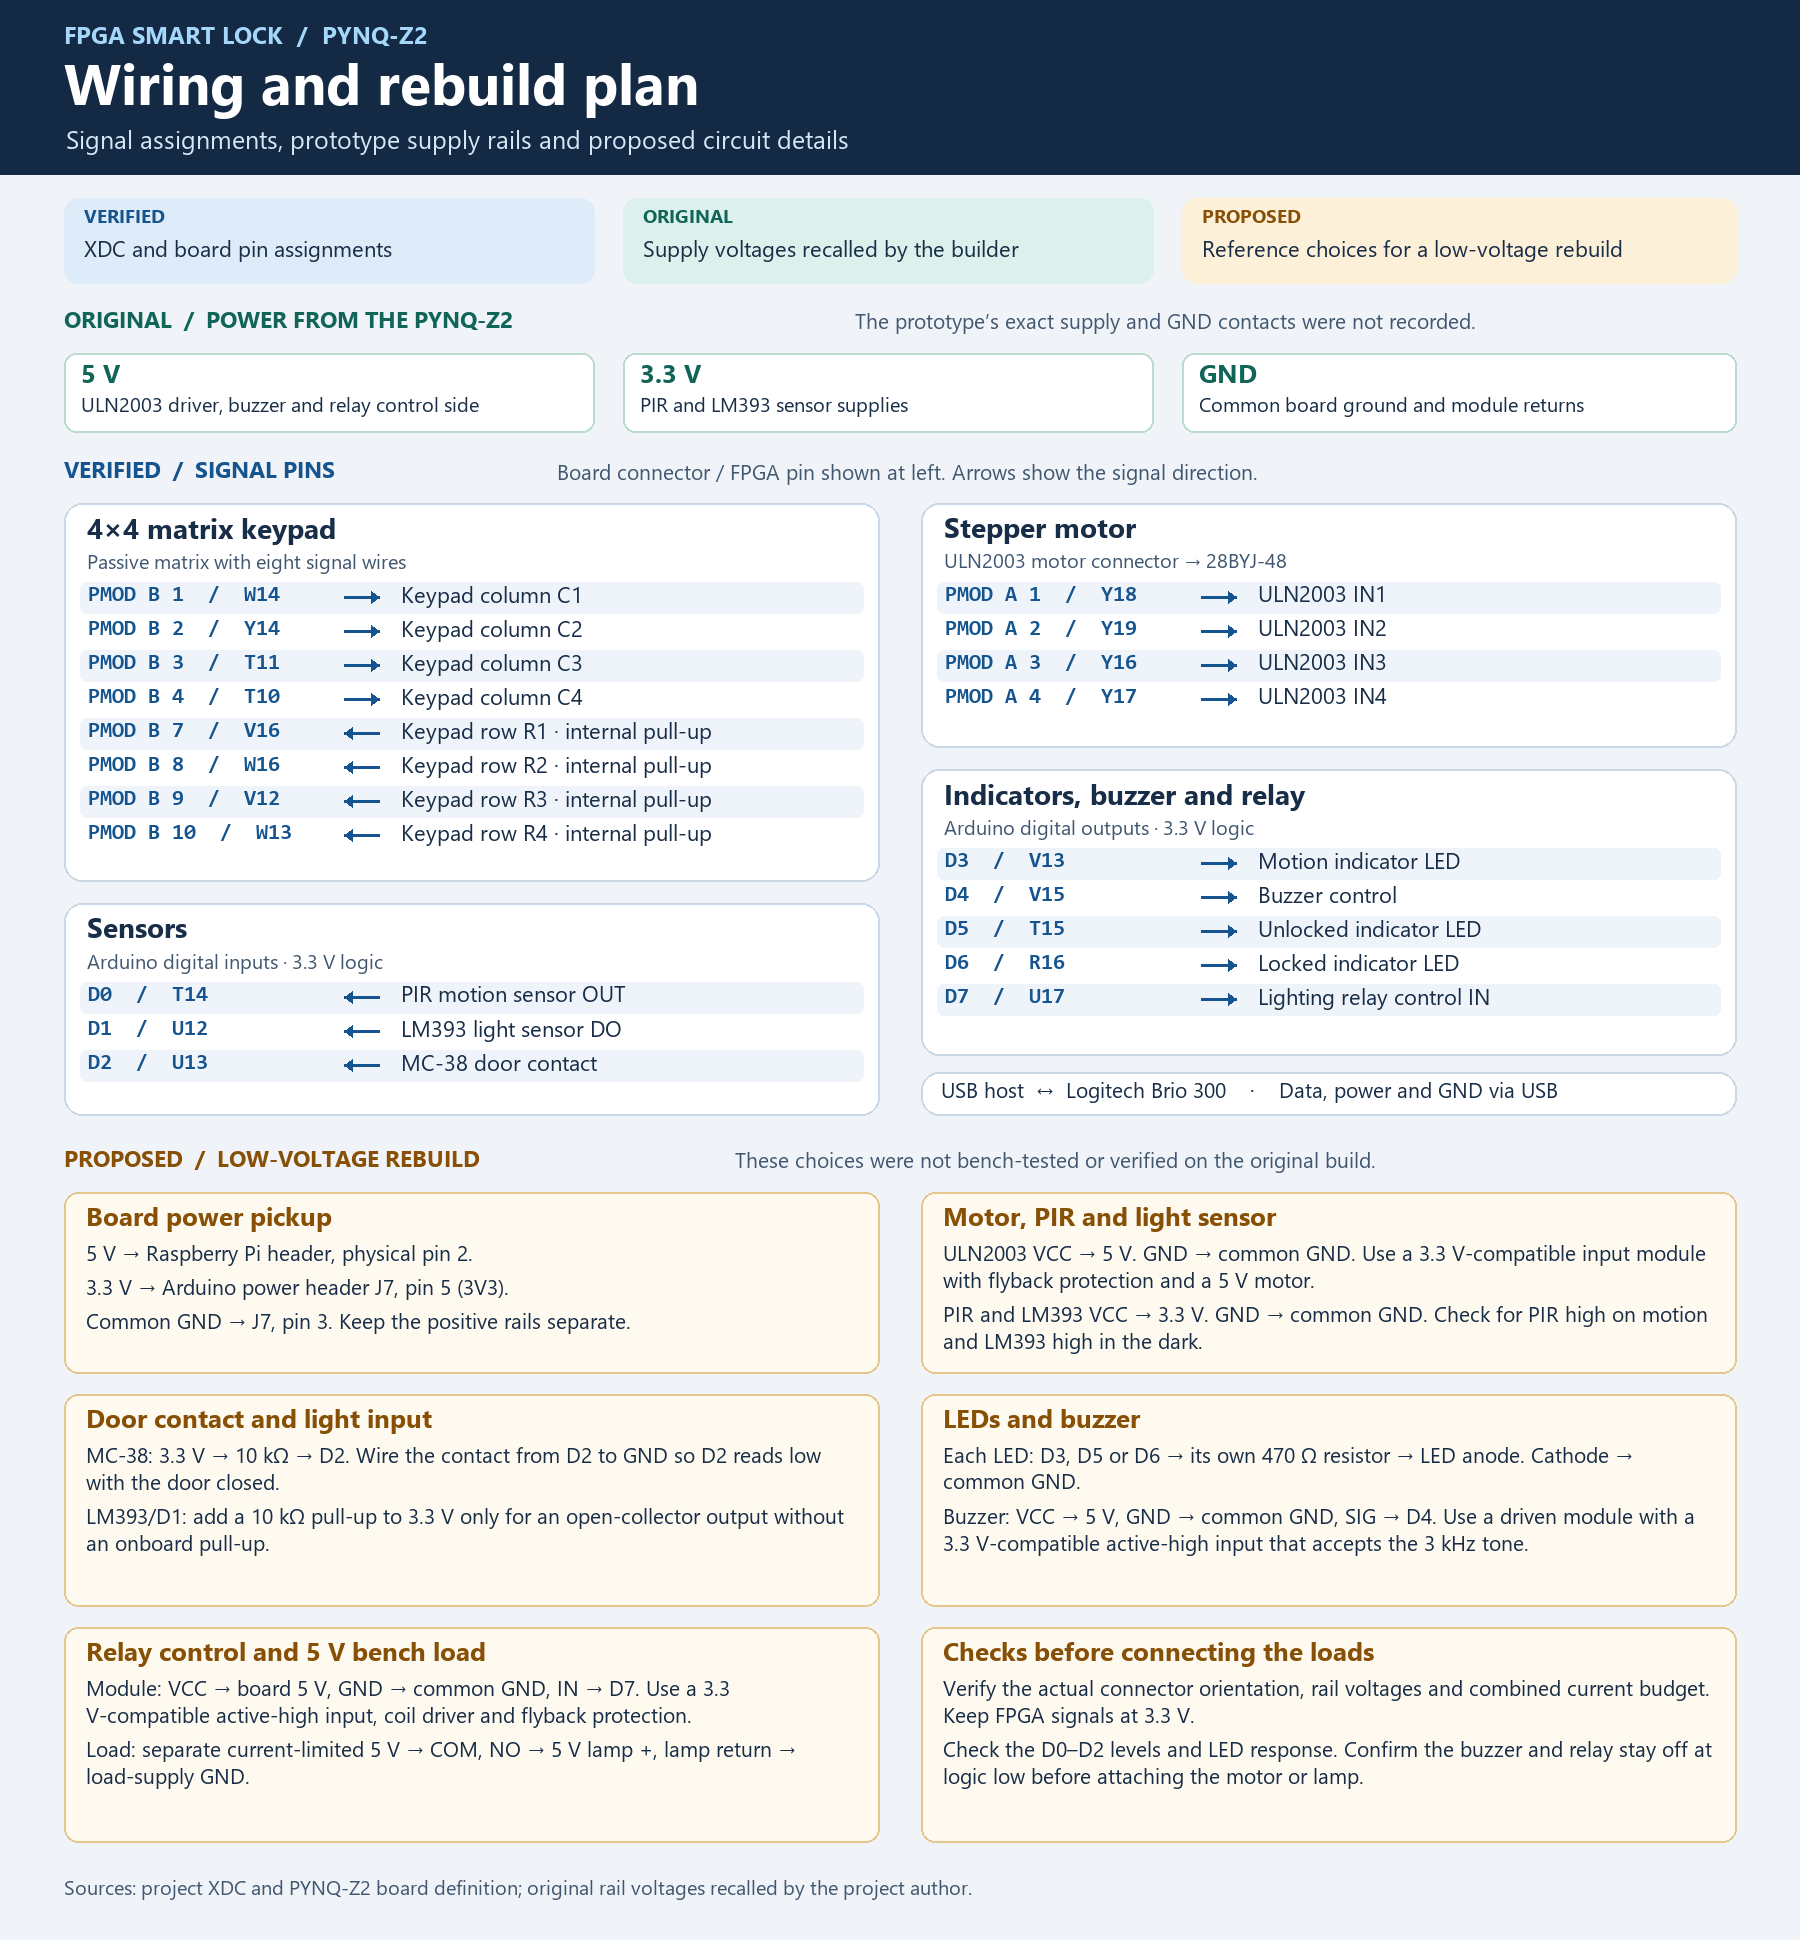
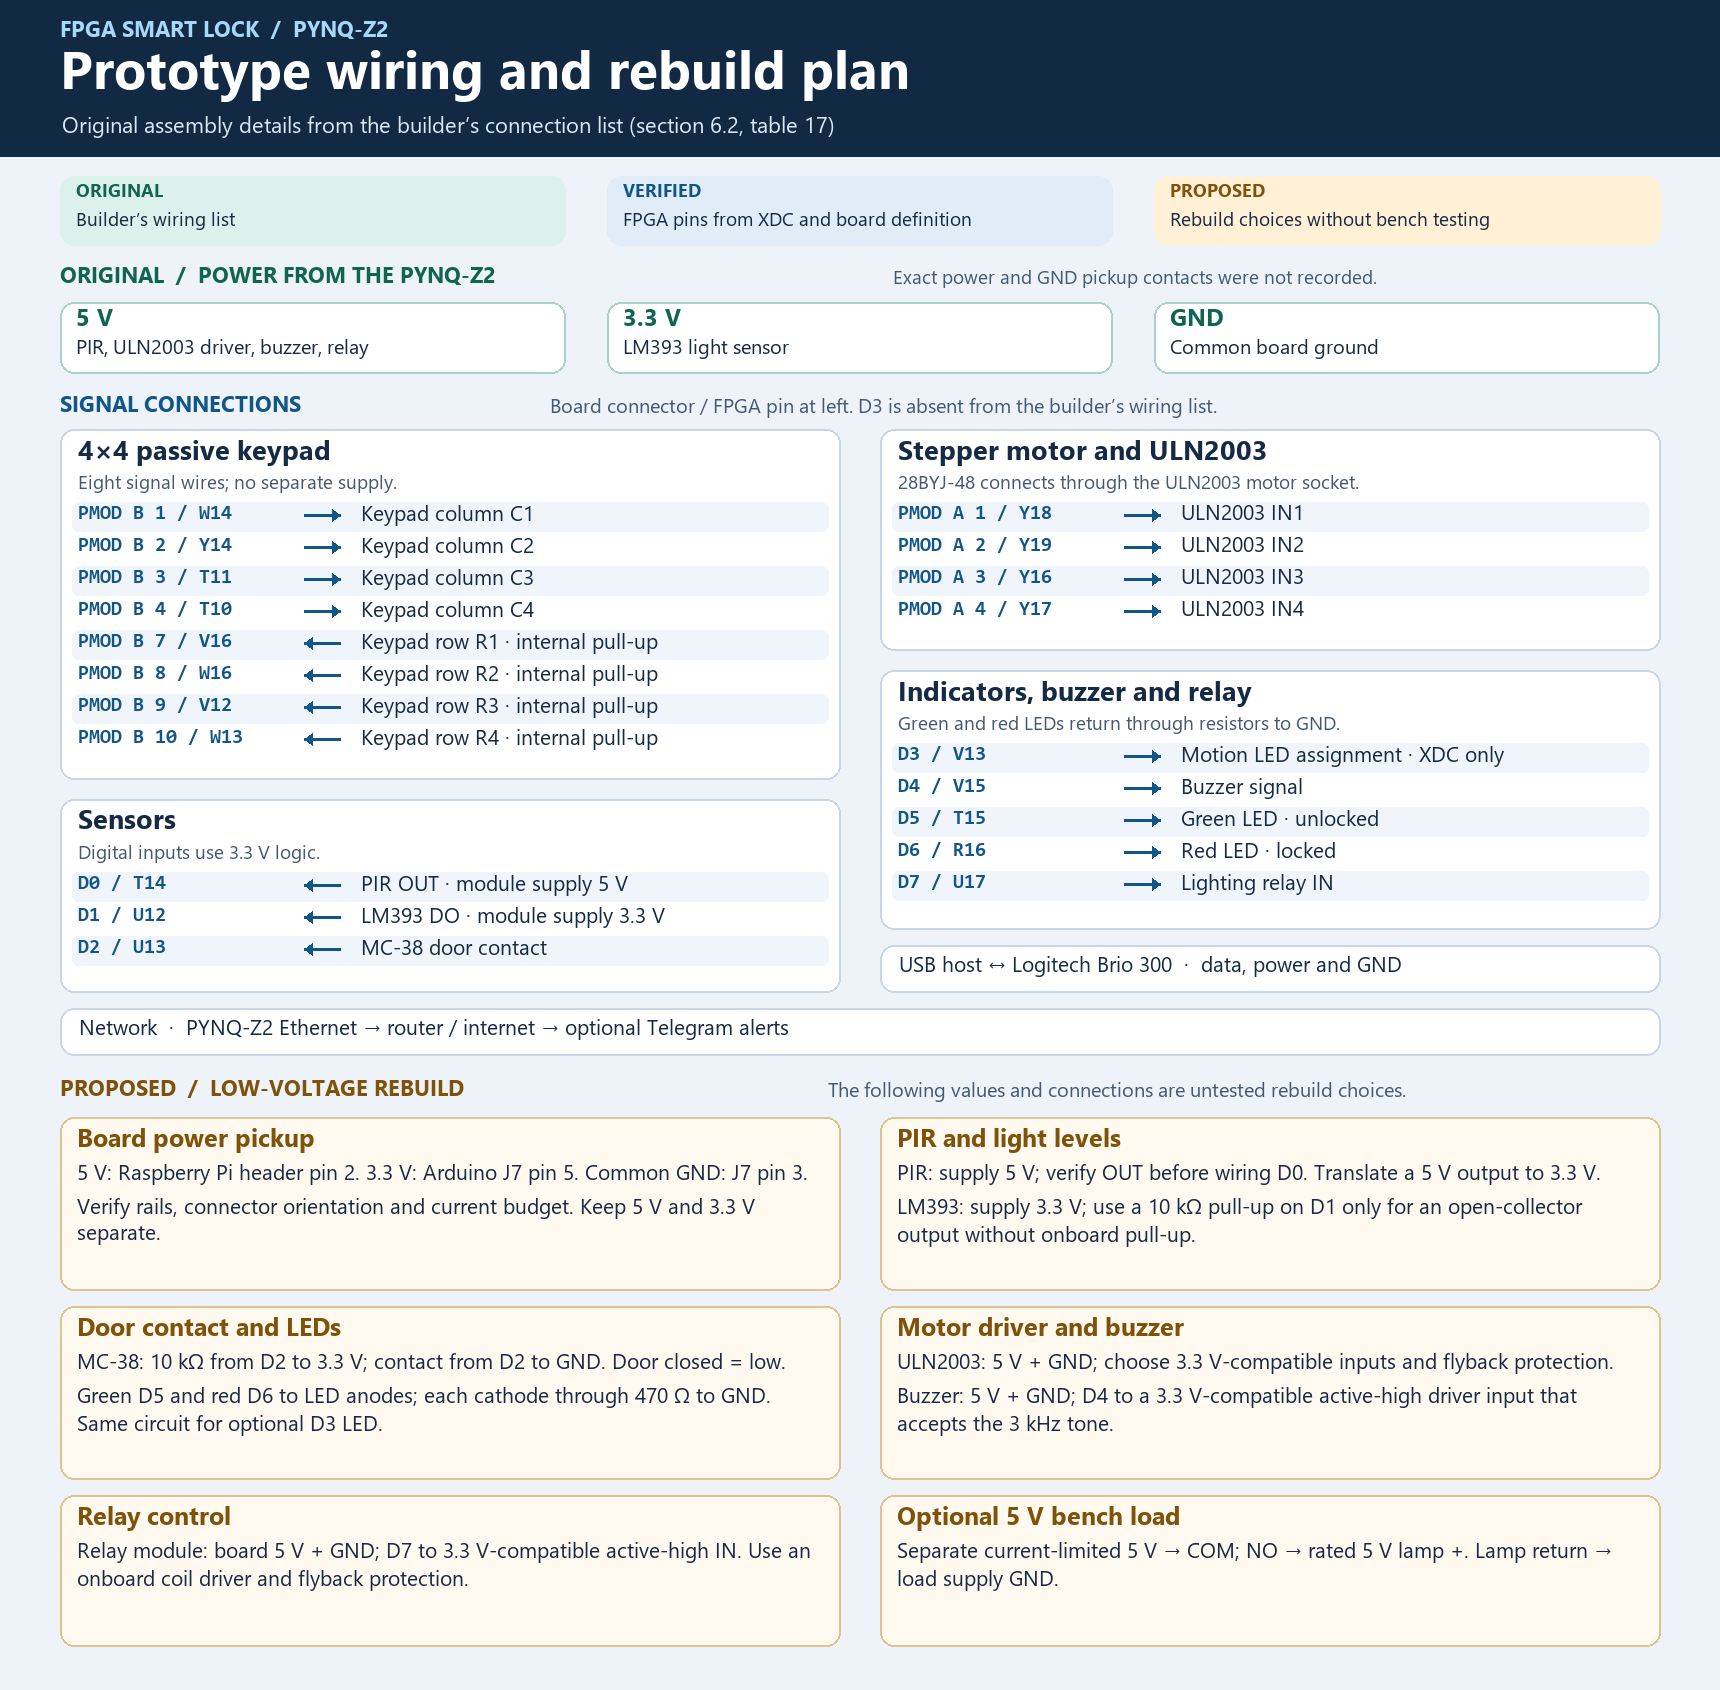
Reconcile hardware documentation with the original wiring table

Changed region(s): [[0.0308, 0.0, 0.9552, 0.9846]]

diff --git a/docs/hardware.md b/docs/hardware.md
@@ -18,12 +18,13 @@ flowchart LR
     camera -->|"USB"| board
     board -->|"PMOD A pins 1–4"| driver
     driver --> motor
-    board -->|"Arduino D3–D7"| indicators
+    board -->|"Arduino D4–D7"| indicators
+    board <-->|"Ethernet"| network["Router / Internet for Telegram"]
 ```
 
 ## Power and ground
 
-The prototype used the PYNQ-Z2 as the source for both supply rails and the common ground. The rail assignments below are based on the project author's recollection of the assembled prototype. The exact header contacts used to take 5 V, 3.3 V, and GND from the board were not recorded.
+The prototype used the PYNQ-Z2 as the source for both supply rails and the common ground. The supply and peripheral connections below follow the builder's wiring list (section 6.2, table 17). The list specifies 5 V for the PIR sensor and 3.3 V for the LM393 module. It does not identify the exact board contacts used for power and ground.
 
 ```mermaid
 flowchart LR
@@ -32,8 +33,8 @@ flowchart LR
     three["3.3 V rail"]
     ground["Common ground"]
     driver["ULN2003 driver"]
-    loads["Relay module and buzzer"]
-    sensors["PIR and LM393 light sensor modules"]
+    loads["Relay module, buzzer and PIR sensor"]
+    sensors["LM393 light sensor module"]
     motor["28BYJ-48 motor"]
     camera["USB camera"]
     board --> five
@@ -54,12 +55,13 @@ flowchart LR
 | 28BYJ-48 stepper | Through the 5 V-powered ULN2003 driver module | Through the driver module and motor connector |
 | Lighting relay module | Board 5 V on the module's control side | Board GND on the module's control side. Load-side wiring was not recorded. |
 | Buzzer | Board 5 V | Board GND reference. The exact drive and return wiring was not recorded. |
-| PIR motion sensor | Board 3.3 V | Board GND |
+| PIR motion sensor | Board 5 V | Board GND |
 | LM393 light sensor module | Board 3.3 V | Board GND |
-| Motion, unlocked, and locked LEDs | 3.3 V logic on D3, D5, and D6 | Board GND reference. Series resistor values and exact placement were not recorded. |
+| Green unlocked LED and red locked LED | 3.3 V logic on D5 and D6 | Return through a resistor to board GND. The resistor values were not recorded. |
 | MC-38 magnetic door sensor | Passive contact. D2 uses the 3.3 V logic domain. | The exact switch-to-GND connection and bias resistor arrangement were not recorded. |
 | 4×4 matrix keypad | Passive row and column matrix on PMOD B | Uses the eight matrix signal wires. The XDC enables FPGA pull-ups on the row inputs. |
 | Logitech Brio 300 camera | PYNQ-Z2 USB host port | Through the USB cable |
+| Optional Telegram alerts | Board Ethernet port to a router with internet access | Network connection only |
 
 The FPGA header signals use 3.3 V logic, including the control signals to the 5 V peripherals. Check the signal levels and interfaces of the specific modules before recreating the circuit. [PYNQ-Z2 reference manual](https://dpoauwgwqsy2x.cloudfront.net/Download/pynqz2_user_manual_v1_0.pdf)
 
@@ -89,10 +91,10 @@ Pin numbers refer to the physical PMOD connector. Direction is relative to the P
 | D0 (AR0) | T14 | `peripheral_inputs[0]` | Input | PIR motion sensor |
 | D1 (AR1) | U12 | `peripheral_inputs[1]` | Input | LM393 light sensor, digital output |
 | D2 (AR2) | U13 | `peripheral_inputs[2]` | Input | MC-38 magnetic door sensor |
-| D3 (AR3) | V13 | `peripheral_outputs[0]` | Output | Motion indicator LED |
+| D3 (AR3) | V13 | `peripheral_outputs[0]` | Output | Motion indicator in the XDC and notebook. The supplied wiring list does not show a connected LED on D3. |
 | D4 (AR4) | V15 | `peripheral_outputs[1]` | Output | Buzzer control |
-| D5 (AR5) | T15 | `peripheral_outputs[2]` | Output | Unlocked indicator LED |
-| D6 (AR6) | R16 | `peripheral_outputs[3]` | Output | Locked indicator LED |
+| D5 (AR5) | T15 | `peripheral_outputs[2]` | Output | Green unlocked indicator LED |
+| D6 (AR6) | R16 | `peripheral_outputs[3]` | Output | Red locked indicator LED |
 | D7 (AR7) | U17 | `peripheral_outputs[4]` | Output | Lighting relay control |
 
 The notebook treats a low signal on AR2 as door closed and a high signal as door open. The XDC comment labels this input as an external reset. The final report and notebook assign it to the door sensor.
@@ -117,13 +119,14 @@ Locate pin 1 and verify the rail voltages with a meter before attaching modules.
 | --- | --- |
 | ULN2003 driver and 28BYJ-48 | Use the 5 V version of the motor. Connect the driver's 5 V and GND terminals to the corresponding rails. Connect PMOD A pins 1–4 to IN1–IN4 as listed above, and plug the motor into the driver's motor connector. Select a driver module that specifies compatibility with 3.3 V control and includes the motor flyback path. |
 | 4×4 keypad | Connect columns C1–C4 to PMOD B pins 1–4 and rows R1–R4 to pins 7–10. Use a passive matrix keypad with no separate supply connection. Match wires by row and column, since ribbon pin order can vary. |
-| PIR sensor | Use a PIR module specified for a 3.3 V supply and 3.3 V output. Connect VCC to 3.3 V, GND to common GND, and OUT to D0. The notebook expects a high signal on motion. |
+| PIR sensor | Connect VCC to 5 V and GND to common GND. The notebook expects a high signal on motion at D0. Verify the module's OUT voltage before connecting it. A 5 V output requires a suitable 5 V-to-3.3 V interface before D0. |
 | LM393 light sensor | With a module rated for a 3.3 V supply, connect VCC to 3.3 V, GND to common GND, and digital output to D1. Verify that the output stays in the 3.3 V domain and goes high in the dark for the notebook's default `DARK_VALUE = 1`. Add a 10 kΩ pull-up to 3.3 V only if the output is open collector and the module lacks an onboard pull-up. |
 | MC-38 door contact | Connect a 10 kΩ pull-up from D2 to 3.3 V. Connect the contact between D2 and GND. With the magnet in the door-closed position, confirm that the contact conducts so the input reads low, matching `DOOR_CLOSED_VALUE = 0`. |
-| Motion, unlocked and locked LEDs | Wire each output (D3, D5, D6) through its own 470 Ω series resistor to the LED anode. Connect each cathode to GND. Use indicator LEDs with a forward voltage suitable for a 3.3 V output. |
+| Green and red LEDs | Connect the green LED anode to D5 and the red LED anode to D6. Connect each cathode through its own 470 Ω series resistor to GND. Use indicator LEDs with a forward voltage suitable for a 3.3 V output. D3 can drive an optional motion LED via the same circuit. |
 | Buzzer | Use a 5 V, externally driven buzzer module with an onboard driver and a 3.3 V-compatible active-high signal input. Connect VCC to 5 V, GND to common GND, and signal to D4. Select a module that accepts the notebook's nominal 3 kHz tone signal. |
 | Lighting relay | Use a 5 V relay module with an onboard coil driver, flyback protection, and a 3.3 V-compatible active-high input. Connect VCC to 5 V, GND to common GND, and IN to D7. For a low-voltage bench demonstration, connect a current-limited 5 V source to COM, NO to the positive terminal of a rated 5 V lamp, and the lamp return to that source's ground. Keep the load supply separate from the board's 5 V rail. |
 | USB camera | Plug the camera into the PYNQ-Z2 USB host port. The cable carries data, power, and ground. |
+| Optional Telegram alerts | Connect the PYNQ-Z2 Ethernet port to a router with internet access and configure the notebook's local Telegram settings. |
 
 Before attaching the motor or lamp, check the D0–D2 logic levels, verify that each LED follows its output, and confirm that the buzzer and relay remain off at a low input. Check the exact module pinouts against their datasheets. [Texas Instruments ULN2003A reference](https://www.ti.com/product/ULN2003A)
 

diff --git a/README.md b/README.md
@@ -23,7 +23,7 @@ The Zynq processing system runs the Python application and communicates with the
 
 [![Smart Lock wiring diagram showing verified PYNQ-Z2 signal pins in blue, original supply rails in green, and proposed rebuild wiring in amber](docs/media/smart-lock-wiring.png)](docs/media/smart-lock-wiring.png)
 
-Select the diagram to view it at full size. The [hardware guide](docs/hardware.md) lists the pin assignments and original supply voltages in text. See the [proposed low-voltage rebuild](docs/hardware.md#proposed-low-voltage-rebuild) for the reference connections and checks.
+Select the diagram to view it at full size. The [hardware guide](docs/hardware.md) records the connections and supply voltages from the builder's wiring list. See the [proposed low-voltage rebuild](docs/hardware.md#proposed-low-voltage-rebuild) for the reference connections and checks.
 
 ## Repository layout
 
